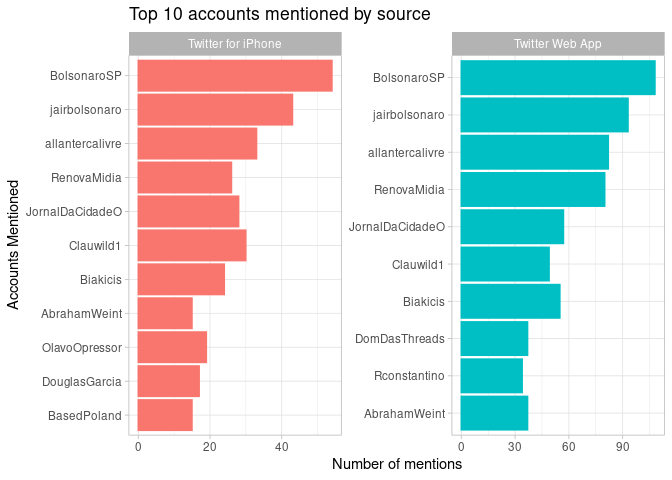
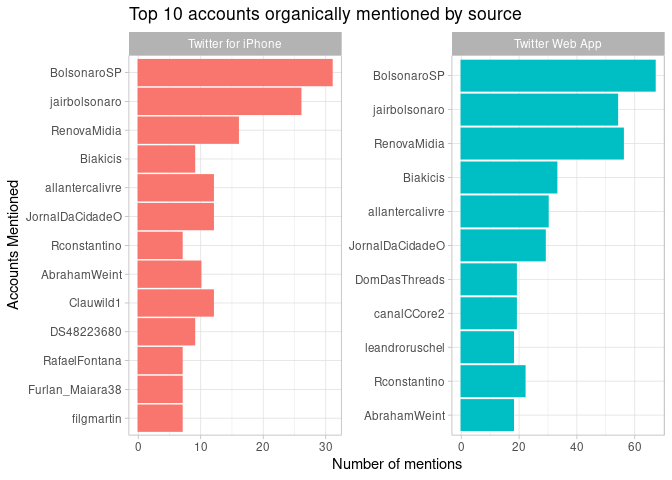
v1 of Account Investigation Analysis.

diff --git a/02_twitter_account_investigation.md b/02_twitter_account_investigation.md
@@ -174,7 +174,7 @@ acc %>%
   theme_light() +
   xlab("Date/Time of the Day") +
   ylab("Tweets/Hour") +
-  ggtitle("Tweets per hour by @psmtavares account") +
+  ggtitle("Tweets per hour by @lysbella account") +
   theme(legend.position = "none")
 ```
 
@@ -288,6 +288,7 @@ accounts mentioned:
 
 ``` r
 acc %>%
+  filter(is_retweet == F) %>%
   select(status_id, source, mentions_screen_name) %>%
   unnest(mentions_screen_name) %>%
   filter(!is.na(mentions_screen_name)) %>%
@@ -304,7 +305,7 @@ acc %>%
   theme_light() +
   xlab("Accounts Mentioned") +
   ylab("Number of mentions") +
-  ggtitle("Top 10 accounts mentioned by source") +
+  ggtitle("Top 10 accounts organically mentioned by source") +
   theme(legend.position="none")
 ```
 
@@ -316,3 +317,40 @@ support him and news websites used by them. One case here we have
 @jornaldacidadeo, an account being flagged multiple times about fake
 news/hate speech and being targeted by [Sleeping
 Giants](https://twitter.com/slpng_giants_pt) movement.
+
+## Repetitive Content
+
+Finally, let’s make a quick check on organic content being posted to see
+if there are repetitive content on it.
+
+``` r
+acc %>%
+  filter(is_retweet == F) %>%
+  group_by(user_id) %>%
+  summarise(
+    n = length(text),
+    distinct = n_distinct(text),
+    distinct_pct = distinct/n
+  )
+```
+
+    ## # A tibble: 1 x 4
+    ##   user_id      n distinct distinct_pct
+    ##   <chr>    <int>    <int>        <dbl>
+    ## 1 33576610  1613     1612        0.999
+
+> 99.9% of tweets from this account are distinct, which means that this
+> account isn’t posting repetitive content.
+
+## Summary
+
+  - This account presents a posting pattern that is not typical, due to
+    constant posting (including late night hours) and the breakdown
+    between iPhone and Web sources.
+  - Although we couldn’t find signals of hashtag boosting, this account
+    is mentioning other accounts in almost all tweets. This is a
+    strategy for boost growth of accounts and might being be used for
+    this purpose.
+  - Accounts with more mentions are all related to the politician that
+    we used first to select this account, being used as a echo chamber
+    for this discourse.
